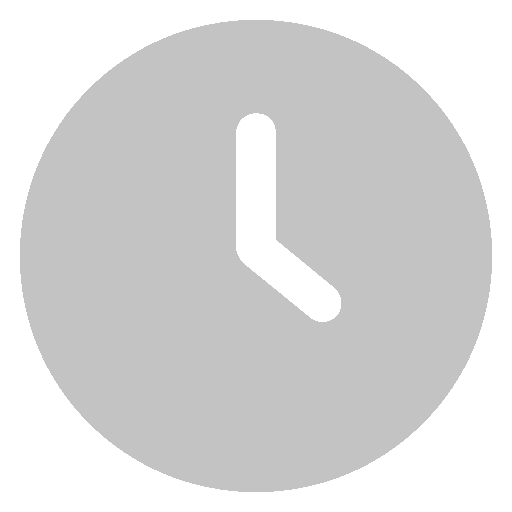
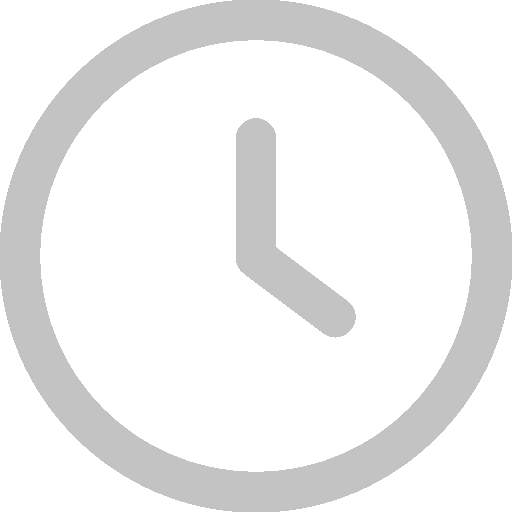
new resources: added png's for time and date selection. added and fixed issues on attribution page

diff --git a/pages/attributions.js b/pages/attributions.js
@@ -53,9 +53,7 @@ function Attributions() {
                 backgroundColor="var(--soft-highlight)"
             />
             <Attribution src="unfriend.png" href="https://www.flaticon.com/free-icons/heartbreak" desc="Heartbreak icons created by Freepik - Flaticon" />
-            <a href="https://www.flaticon.com/free-icons/heart" title="heart icons">
-                Heart icons created by Freepik - Flaticon
-            </a>
+
             <Attribution src="friends.png" href="https://www.flaticon.com/free-icons/heart" desc="Heart icons created by Freepik - Flaticon" />
             <Attribution src="addfriend.png" href="https://www.flaticon.com/free-icons/add-user" desc="Add user icons created by uicon - Flaticon" />
             <Attribution src="cancel.png" href="https://www.flaticon.com/free-icons/cancel" desc="Cancel icons created by Freepik - Flaticon" />
@@ -65,8 +63,10 @@ function Attributions() {
             <Attribution src="delete.png" href="https://www.flaticon.com/free-icons/trash-can" desc="Trash can icons created by Anggara - Flaticon" />
             <Attribution src="private.png" href="https://www.flaticon.com/free-icons/privacy-policy" desc="Privacy policy icons created by Anggara - Flaticon" />
             <Attribution src="earth.png" href="https://www.flaticon.com/free-icons/globe" desc="Globe icons created by Hilmy Abiyyu A. - Flaticon" />
-            <Attribution src="/crown.png" href="https://www.flaticon.com/free-icons/crown" desc="Crown icons created by feen - Flaticon" />
-            <Attribution src="/calendar.png" href="https://www.flaticon.com/free-icons/calendar" desc="Calendar icons created by Freepik - Flaticon" />
+            <Attribution src="crown.png" href="https://www.flaticon.com/free-icons/crown" desc="Crown icons created by feen - Flaticon" />
+            <Attribution src="calendar.png" href="https://www.flaticon.com/free-icons/calendar" desc="Calendar icons created by Freepik - Flaticon" />
+            <Attribution src="clock.png" href="https://www.flaticon.com/free-icons/clock" desc="Clock icons created by dmitri13 - Flaticon" />
+            <Attribution src="waiting.png" href="https://www.flaticon.com/free-icons/clock" desc="Clock icons created by CreativeCons - Flaticon" />
         </div>
     );
 }
